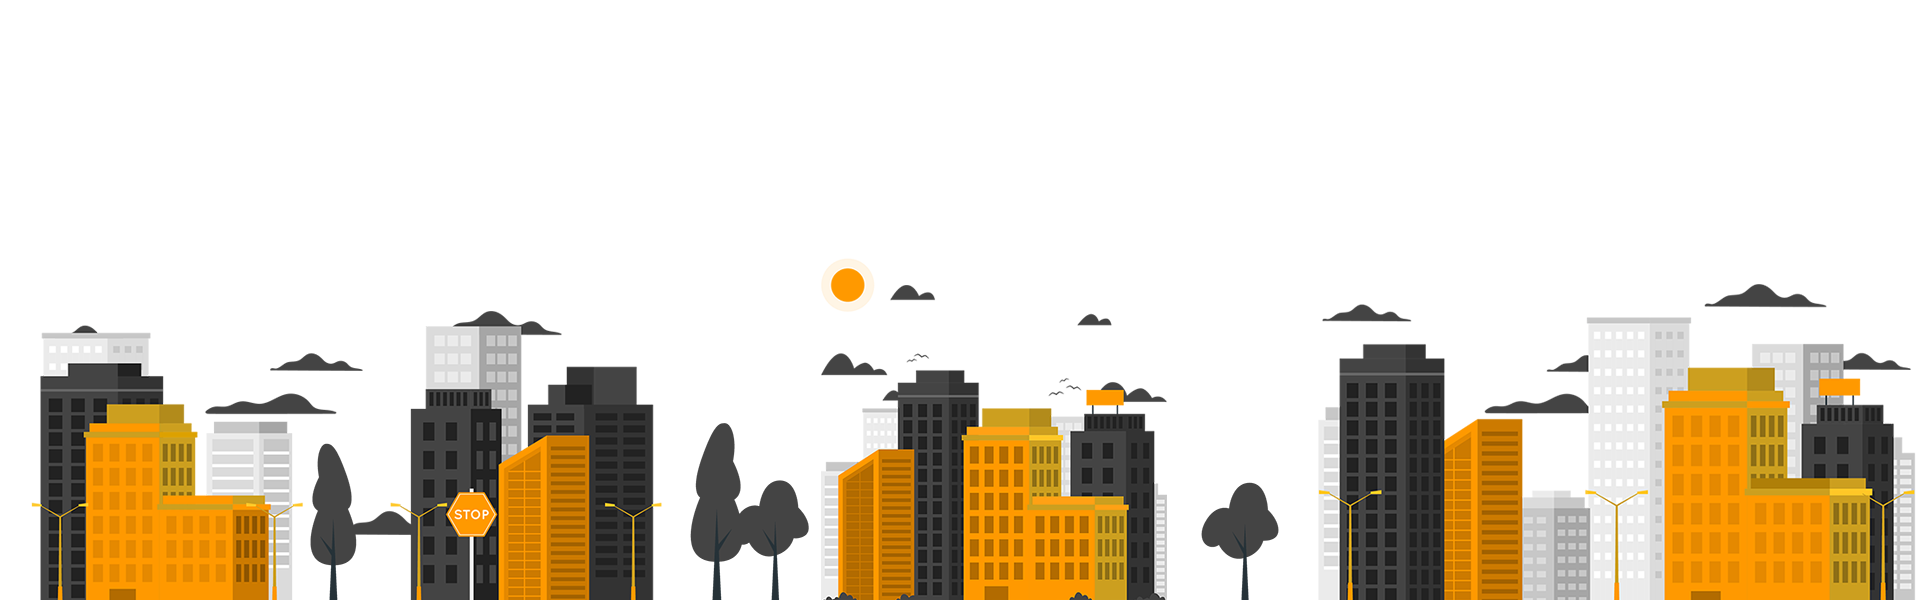
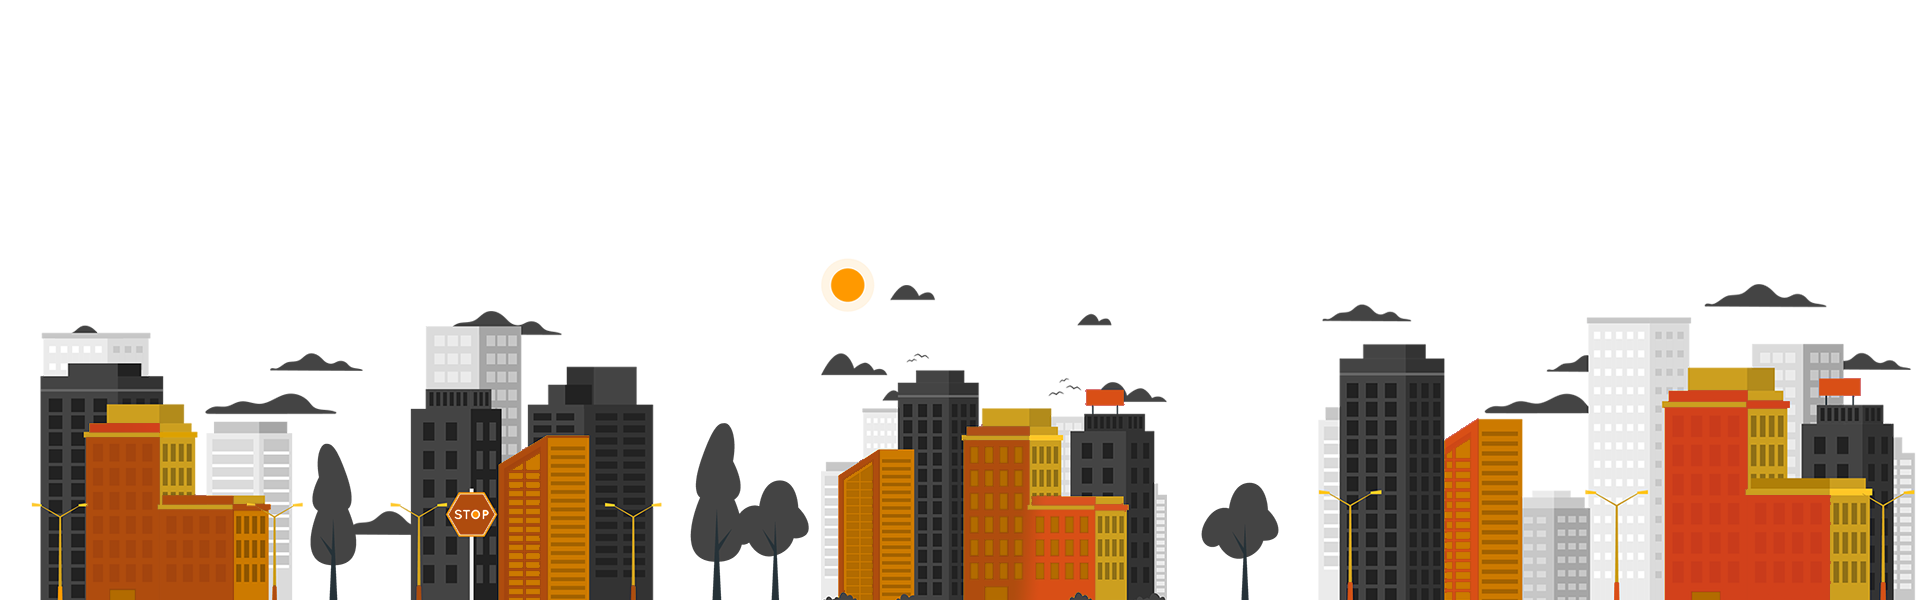
6

diff --git a/index.html b/index.html
@@ -361,9 +361,8 @@
         <div class="container">
             <div class="section-heading text-center mb-40 wow fade-in-bottom" data-wow-delay="200ms">
                 <h4><span></span>What We Offer</h4>
-                <h2 class="white">Start your journey with<br>Ridek Taxi Company!</h2>
-                <p>We successfully cope with tasks of varying complexity, provide long-term <br>guarantees and regularly
-                    master new technologies.</p>
+                <h2 class="white">Booking a Ride Made Easy with<br> Faith Trip!</h2>
+                <p>Book a ride with Faith Trip today and experience the difference of a transportation service that truly cares.</p>
             </div>
             <!--/.section-heading-->
             <div class="swiper-outside">

diff --git a/assets/css/main.css b/assets/css/main.css
@@ -2118,6 +2118,7 @@ textarea:-ms-input-placeholder {
     bottom: 0;
     z-index: -1;
     overflow: hidden;
+    opacity: 40%;
 }
 
 .running-taxi {
@@ -2188,14 +2189,14 @@ textarea:-ms-input-placeholder {
 
 .footer-contact li span {
     display: block;
-    color: #ff1313;
+    color: #ffa313;
     font-size: 14px;
     font-weight: 600;
     text-transform: uppercase;
 }
 
 .footer-links li a:hover {
-    color: #CC2539;
+    color: #ffa313;
 }
 
 @media (min-width: 992px) {
